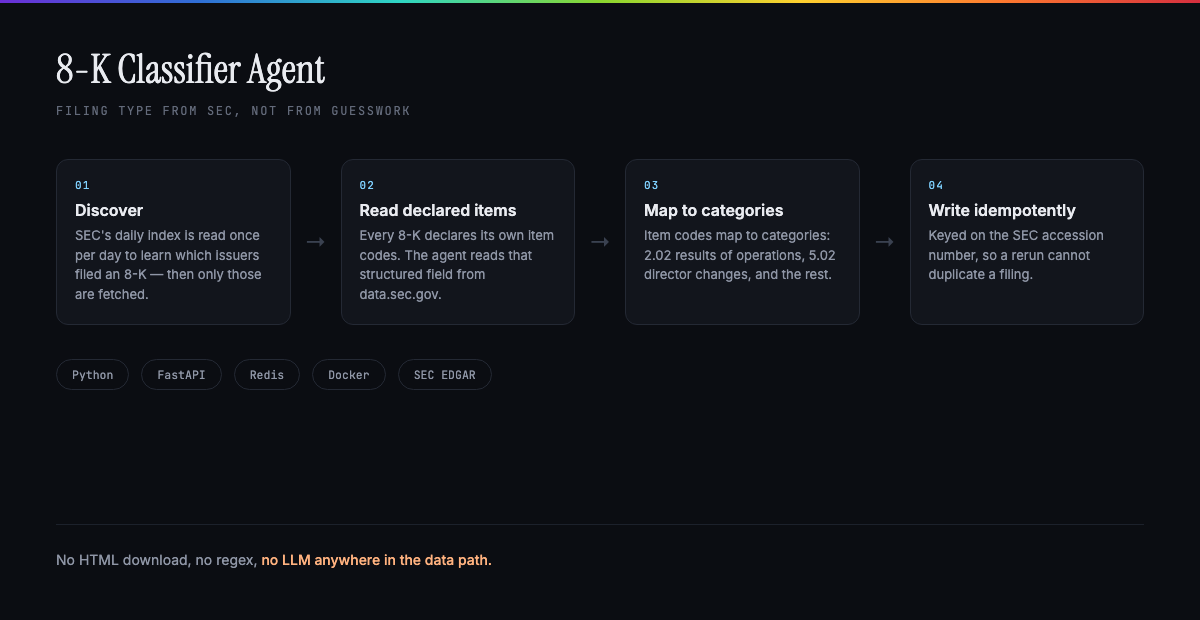
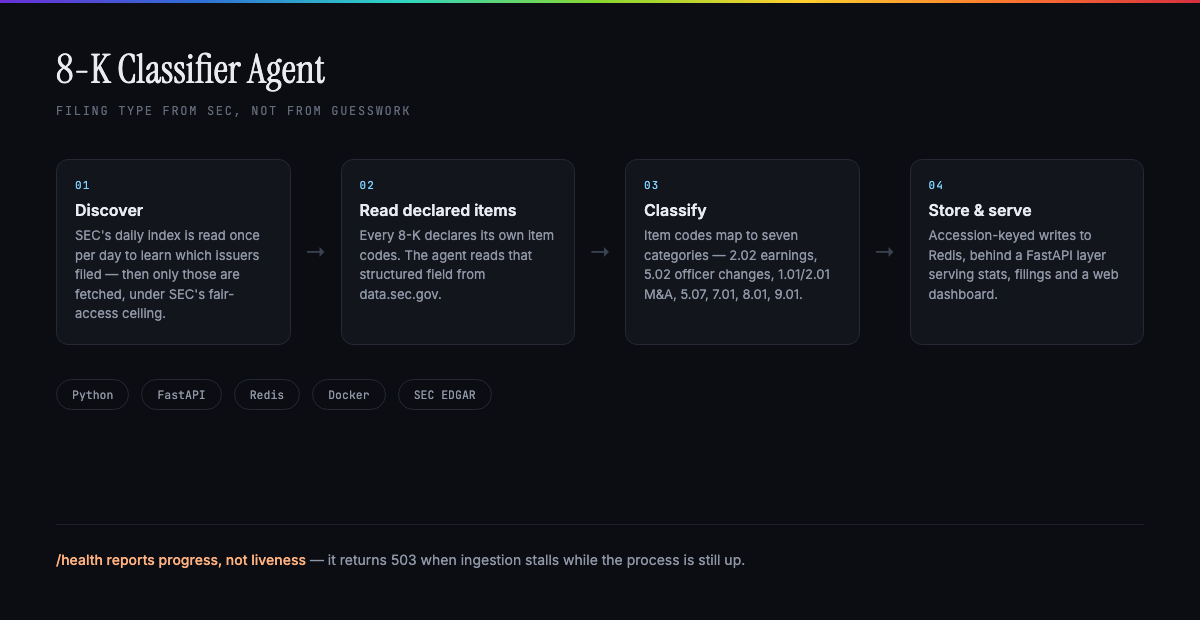
section buttons filter the page; 8-K card reflects the actual repo

diff --git a/projects.js b/projects.js
@@ -53,14 +53,17 @@ const PROJECTS = [
     year: "2025—2026",
     scale: "19 merged PRs · built from scratch",
     blurb:
-      "A real-time classification service for SEC 8-K filings, mine end to end from first commit to production. Every 8-K declares its own item codes — 2.02 for results of operations, 5.02 for director changes — and SEC publishes those as structured metadata, so the agent reads that field directly: no HTML download, no regex, no LLM in the data path. It sweeps the daily index hourly, keys every write to the SEC accession number so reruns can't duplicate, and feeds the earnings calendar through a REST API.",
+      "A real-time classification service for SEC 8-K filings, mine end to end from first commit to production. Every 8-K declares its own item codes — 2.02 for results of operations, 5.02 for director changes — and SEC publishes those as structured metadata, so the agent reads that field directly: no HTML download, no regex, no LLM in the data path. It sweeps the daily index hourly, keys every write to the SEC accession number so reruns can't duplicate, and feeds the earnings calendar, a REST API and a web dashboard it serves itself.",
     result: "Classifies the whole S&P 500 in 30–40 requests per cycle",
     details: [
       "Rate-limited EDGAR client running under SEC's fair-access ceiling",
       "Incremental hourly sweep of the daily index, weekly full sweep for backfill",
       "Accession-keyed writes, so reruns are idempotent",
       "Exponential backoff and retry across the whole symbol universe",
-      "REST API over the classified set, consumed by the earnings calendar",
+      "Seven categories mapped from item codes: earnings, officer changes, M&A, meetings, IR, other events, exhibits",
+      "FastAPI layer serving stats, agent status and filings filterable by symbol and category",
+      "A web dashboard over the classified set, served by the agent itself",
+      "/health reports progress rather than liveness — 503 when ingestion stalls while the process is up",
     ],
     stack: ["Python", "FastAPI", "Redis", "Docker", "SEC EDGAR"],
     media: { type: "image", src: "assets/img/8k-classifier-agent.png", alt: "How the 8-K classifier agent decides a filing's type" },

diff --git a/app.js b/app.js
@@ -62,8 +62,11 @@ function groupsPresent() {
   return GROUP_ORDER.filter(g => PROJECTS.some(p => p.group === g));
 }
 
+let activeGroup = "all";
+
 function render() {
-  grid.innerHTML = groupsPresent().map(g => {
+  const shown = groupsPresent().filter(g => activeGroup === "all" || slug(g) === activeGroup);
+  grid.innerHTML = shown.map(g => {
     const items = PROJECTS.filter(p => p.group === g);
     return `<section class="group" id="${slug(g)}">
       <header class="group-head">
@@ -84,15 +87,14 @@ function renderNav(active) {
     }).join("");
 }
 
-/* Nav scrolls to a section. Nothing collapses — everything stays on the page. */
+/* The nav selects which section is on the page. "All" shows every one. */
 groupnav.addEventListener("click", e => {
   const btn = e.target.closest(".group-chip");
   if (!btn) return;
-  renderNav(btn.dataset.target);
-  const dest = btn.dataset.target === "all"
-    ? document.querySelector(".controls")
-    : document.getElementById(btn.dataset.target);
-  if (dest) dest.scrollIntoView({ behavior: "smooth", block: "start" });
+  activeGroup = btn.dataset.target;
+  renderNav(activeGroup);
+  render();
+  document.querySelector(".controls").scrollIntoView({ behavior: "smooth", block: "start" });
 });
 
 /* Videos load and play only when scrolled into view, and pause when they leave.
@@ -127,7 +129,14 @@ render();
    in the URL by the time they exist. Re-resolve it after the first render —
    this is what the deep links in the GitHub profile README rely on. */
 if (location.hash) {
-  const target = document.getElementById(decodeURIComponent(location.hash.slice(1)));
+  const wanted = decodeURIComponent(location.hash.slice(1));
+  const owner = PROJECTS.find(p => slug(p.title) === wanted);
+  if (owner) {
+    activeGroup = slug(owner.group);
+    renderNav(activeGroup);
+    render();
+  }
+  const target = document.getElementById(wanted);
   if (target) {
     target.scrollIntoView();
     target.classList.add("card--linked");
